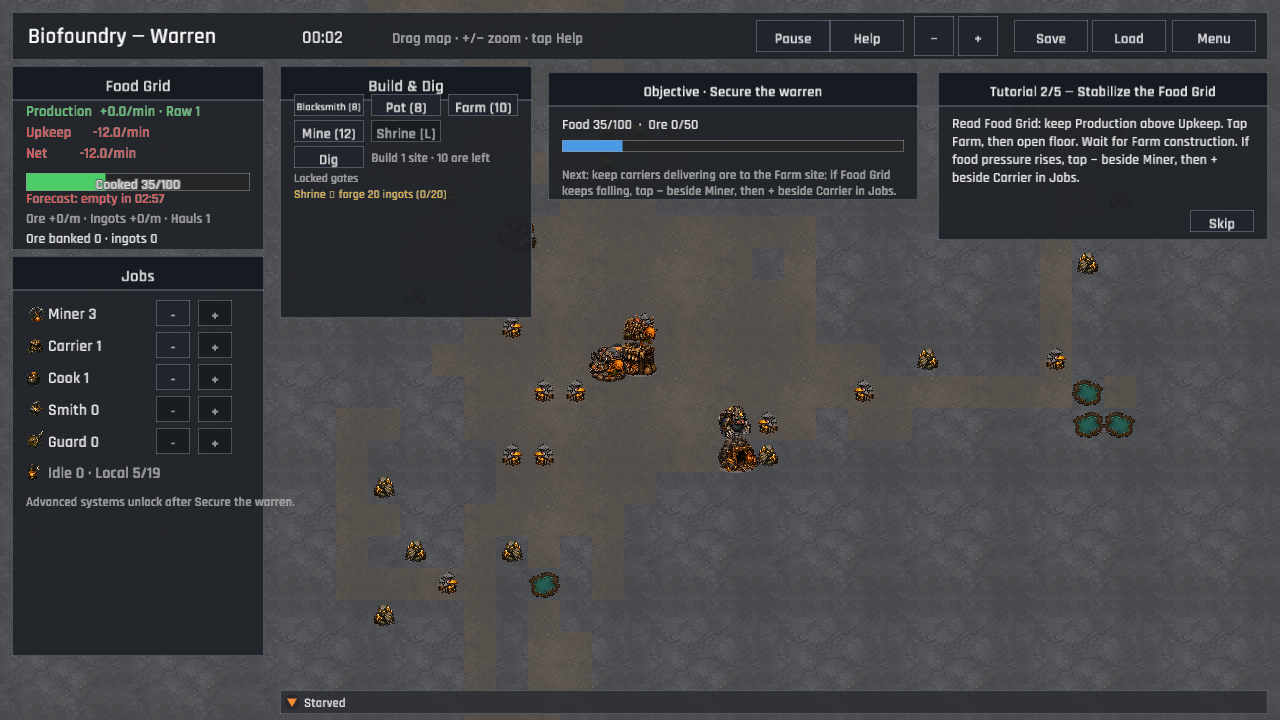
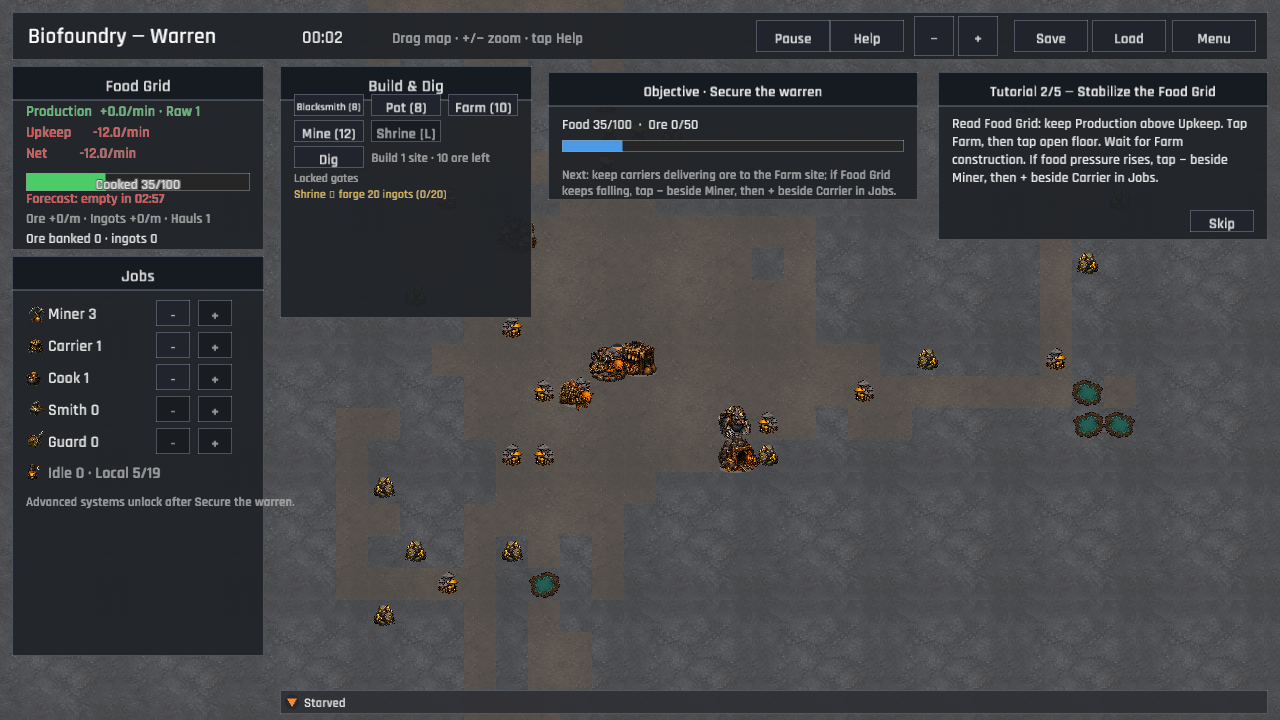
The lessons point every footstep through the warren (tutorial guidance)
Food and factory onboarding now names the exact visible taps for selecting a building, placing it on open floor, opening the placed Blacksmith, and queueing the Iron Pickaxe. The tutorial renderer moved into its own module so the focused guidance change preserves the project's Rust file-size limit, while refreshed captures and regression assertions keep the normal and compact cards honest.

Changed region(s): [[0.75, 0.1833, 0.9688, 0.275], [0.4688, 0.4278, 0.5312, 0.4889], [0.4375, 0.5194, 0.4688, 0.5806]]

diff --git a/src/ui/hud/panels.rs b/src/ui/hud/panels.rs
@@ -4,6 +4,7 @@
 mod food;
 mod specialists;
 mod top_bar;
+mod tutorial;
 mod workforce;
 
 pub(super) use food::draw_food_grid_panel;
@@ -12,6 +13,9 @@ pub(super) use top_bar::{
     compact_food_recovery_hint, compact_raid_defense_hint, compact_top_bar,
     condensed_food_recovery_hint, condensed_raid_defense_hint, reassignable_job_count,
 };
+pub(super) use tutorial::draw_tutorial_panel;
+#[cfg(test)]
+pub(super) use tutorial::tutorial_body;
 use workforce::{engineer_status_label, workforce_capacity_label, workforce_pressure_label};
 
 use crate::data::GameData;
@@ -22,14 +26,12 @@ use crate::ui::hud::requirements::unlock_requirement_progress;
 use crate::ui::hud::widgets::{hud_button, panel_style};
 use crate::ui::hud::HudSprites;
 use crate::ui::legibility::advanced_systems_unlocked;
-use crate::ui::{UiAction, UiMode, LOGICAL_WIDTH};
+use crate::ui::{UiAction, UiMode};
 use macroquad::prelude::*;
 use macroquad_toolkit::prelude::*;
 use macroquad_toolkit::ui::{draw_ui_text_ex, format_mmss};
 
 const OBJECTIVE_PANEL: Rect = Rect::new(548.0, 72.0, 370.0, 128.0);
-const TUTORIAL_PANEL_HEIGHT: f32 = 168.0;
-const TUTORIAL_BODY_HEIGHT: f32 = 94.0;
 const LOCKED_TOOL_MARKER: &str = "[L]";
 
 #[derive(Debug, Clone, Copy)]
@@ -704,90 +706,4 @@ pub(super) fn draw_objective_panel(session: &GameSession, data: &GameData) -> Re
     );
 
     OBJECTIVE_PANEL
-}
-
-/// The tutorial card, top-right: current step, progress chip, and a skip
-/// button. Returns its rect while visible (for pointer-over-UI checks).
-pub(super) fn draw_tutorial_panel(
-    session: &GameSession,
-    data: &GameData,
-    mouse: Vec2,
-    ui_scale: f32,
-    actions: &mut Vec<UiAction>,
-) -> Option<Rect> {
-    let step = crate::tutorial::current_step(session, data)?;
-    let (done, total) = crate::tutorial::progress(session, data);
-
-    let panel = Rect::new(LOGICAL_WIDTH - 342.0, 72.0, 330.0, TUTORIAL_PANEL_HEIGHT);
-    draw_surface_with_title(
-        panel,
-        Some(&format!("Tutorial {}/{} — {}", done + 1, total, step.title)),
-        &panel_style(),
-        TextStyle::new(15.0, dark::TEXT_BRIGHT),
-    );
-
-    let body = tutorial_body(step, session, data);
-    draw_text_block(
-        &body,
-        panel.x + 14.0,
-        panel.y + 42.0,
-        panel.w - 28.0,
-        TUTORIAL_BODY_HEIGHT,
-        14.0,
-        4.0,
-        dark::TEXT,
-    );
-
-    let skip_height = if compact_top_bar(ui_scale) {
-        30.0
-    } else {
-        22.0
-    };
-    if hud_button(
-        Rect::new(
-            panel.right() - 78.0,
-            panel.bottom() - 30.0,
-            64.0,
-            skip_height,
-        ),
-        "Skip",
-        true,
-        mouse,
-    ) {
-        actions.push(UiAction::SkipTutorial);
-    }
-
-    Some(panel)
-}
-
-fn tutorial_body(
-    step: &crate::data::TutorialStepDef,
-    session: &GameSession,
-    data: &GameData,
-) -> String {
-    match step.id.as_str() {
-        "food" => format!(
-            "Read Food Grid: keep Production above Upkeep. Tap Farm, then open floor. Wait for Farm construction. If food pressure rises, {}.",
-            super::objective::job_assignment_action_hint(
-                session,
-                data,
-                Job::Carrier,
-                &[Job::Miner, Job::Smith, Job::Guard],
-            )
-        ),
-        "factory" => format!(
-            "Tap the existing Mine to read its rate. Place a Blacksmith. To staff it, {}. Tap Blacksmith, then Iron Pickaxe; the miner equips it and the Mine speeds up.",
-            super::objective::job_assignment_action_hint(
-                session,
-                data,
-                Job::Smith,
-                &[Job::Miner, Job::Carrier, Job::Cook, Job::Guard],
-            )
-        ),
-        "secure" => format!(
-            "Deliver 50 ore and hold 100 food in Objective. Before a raid, {}. This secures the warren and ends onboarding; next, forge 20 ingots and raise the Shrine.",
-            super::objective::security_handoff_action_hint(session, data)
-        ),
-        _ => step.body.clone(),
-    }
 }

diff --git a/src/ui/hud/panels/tutorial.rs b/src/ui/hud/panels/tutorial.rs
@@ -1,0 +1,95 @@
+//! The five-beat onboarding card and its state-aware recovery instructions.
+
+use super::compact_top_bar;
+use crate::data::{GameData, TutorialStepDef};
+use crate::state::creatures::Job;
+use crate::state::GameSession;
+use crate::ui::hud::widgets::{hud_button, panel_style};
+use crate::ui::{UiAction, LOGICAL_WIDTH};
+use macroquad::prelude::*;
+use macroquad_toolkit::prelude::*;
+
+const TUTORIAL_PANEL_HEIGHT: f32 = 168.0;
+const TUTORIAL_BODY_HEIGHT: f32 = 94.0;
+
+/// The tutorial card, top-right: current step, progress chip, and a skip
+/// button. Returns its rect while visible (for pointer-over-UI checks).
+pub fn draw_tutorial_panel(
+    session: &GameSession,
+    data: &GameData,
+    mouse: Vec2,
+    ui_scale: f32,
+    actions: &mut Vec<UiAction>,
+) -> Option<Rect> {
+    let step = crate::tutorial::current_step(session, data)?;
+    let (done, total) = crate::tutorial::progress(session, data);
+
+    let panel = Rect::new(LOGICAL_WIDTH - 342.0, 72.0, 330.0, TUTORIAL_PANEL_HEIGHT);
+    draw_surface_with_title(
+        panel,
+        Some(&format!("Tutorial {}/{} — {}", done + 1, total, step.title)),
+        &panel_style(),
+        TextStyle::new(15.0, dark::TEXT_BRIGHT),
+    );
+
+    let body = tutorial_body(step, session, data);
+    draw_text_block(
+        &body,
+        panel.x + 14.0,
+        panel.y + 42.0,
+        panel.w - 28.0,
+        TUTORIAL_BODY_HEIGHT,
+        14.0,
+        4.0,
+        dark::TEXT,
+    );
+
+    let skip_height = if compact_top_bar(ui_scale) {
+        30.0
+    } else {
+        22.0
+    };
+    if hud_button(
+        Rect::new(
+            panel.right() - 78.0,
+            panel.bottom() - 30.0,
+            64.0,
+            skip_height,
+        ),
+        "Skip",
+        true,
+        mouse,
+    ) {
+        actions.push(UiAction::SkipTutorial);
+    }
+
+    Some(panel)
+}
+
+pub fn tutorial_body(step: &TutorialStepDef, session: &GameSession, data: &GameData) -> String {
+    match step.id.as_str() {
+        "food" => format!(
+            "Read Food Grid: keep Production above Upkeep. Tap Farm, then tap open floor. Wait for Farm construction. If food pressure rises, {}.",
+            super::super::objective::job_assignment_action_hint(
+                session,
+                data,
+                Job::Carrier,
+                &[Job::Miner, Job::Smith, Job::Guard],
+            )
+        ),
+        "factory" => format!(
+            "Tap the existing Mine to read its rate. Tap Blacksmith in Build & Dig, then tap open floor. To staff it, {}. Tap the placed Blacksmith, then tap Iron Pickaxe; the miner equips it and the Mine speeds up.",
+            super::super::objective::job_assignment_action_hint(
+                session,
+                data,
+                Job::Smith,
+                &[Job::Miner, Job::Carrier, Job::Cook, Job::Guard],
+            )
+        ),
+        "secure" => format!(
+            "Deliver 50 ore and hold 100 food in Objective. Before a raid, {}. This secures the warren and ends onboarding; next, forge 20 ingots and raise the Shrine.",
+            super::super::objective::security_handoff_action_hint(session, data)
+        ),
+        _ => step.body.clone(),
+    }
+}

diff --git a/src/ui/hud/panels/tests.rs b/src/ui/hud/panels/tests.rs
@@ -69,6 +69,23 @@ fn food_tutorial_names_the_available_carrier_action() {
 }
 
 #[test]
+fn tutorial_placement_and_crafting_steps_name_each_visible_tap() {
+    let data = GameData::load().expect("embedded game data");
+    let mut session = GameSession::new(&data, 7);
+
+    session.tutorial_step = 1;
+    let food = crate::tutorial::current_step(&session, &data).expect("food tutorial step");
+    let food_body = tutorial_body(food, &session, &data);
+    assert!(food_body.contains("Tap Farm, then tap open floor"));
+
+    session.tutorial_step = 2;
+    let factory = crate::tutorial::current_step(&session, &data).expect("factory tutorial step");
+    let factory_body = tutorial_body(factory, &session, &data);
+    assert!(factory_body.contains("Tap Blacksmith in Build & Dig, then tap open floor"));
+    assert!(factory_body.contains("Tap the placed Blacksmith, then tap Iron Pickaxe"));
+}
+
+#[test]
 fn factory_tutorial_names_the_available_smith_action() {
     let data = GameData::load().expect("embedded game data");
     let mut session = GameSession::new(&data, 7);

diff --git a/src/tutorial/tests.rs b/src/tutorial/tests.rs
@@ -187,7 +187,7 @@ fn food_and_worm_lessons_name_the_next_visible_tap() {
         .find(|step| step.id == "worm")
         .expect("worm lesson");
 
-    assert!(food.body.contains("Tap Farm, then open floor"));
+    assert!(food.body.contains("Tap Farm, then tap open floor"));
     assert!(worm.body.contains("Tap the Worm Shrine to inspect it"));
 }
 

diff --git a/docs/phase-one/CANDIDATE_VERIFICATION.md b/docs/phase-one/CANDIDATE_VERIFICATION.md
@@ -89,6 +89,7 @@ automated simulation results into first-time-player evidence.
 | Minimum-layout spot check | Pass | The 1200×675 canvas and required HUD remained visible in the 1280×720 Preview viewport. |
 | Public metadata alignment | Pass (Preview) | The generated Preview page names the visible touch actions for panning, inspection, tools, Jobs controls, optional specialist recruitment, awakened Outpost cargo runs, optional automatic loading, cargo-only returns and food-only resupply, and the post-awakening Endless/Menu choices. Production FTP publication remains a separate release action. |
 | Compact viewport exploration | Pass with follow-up | The hosted Preview smoke path at 800×450 keeps the title, field guide, and Warren HUD on-canvas; capture probes at 800×450, 1024×576, 1280×720, and 1440×900 keep the Food/Factory/Worm tutorial cards, Blacksmith queue controls, Shrine pause control, completion choices, and Endless outpost actions visible without clipping or overlap. The compact branch now gives the high-frequency top-bar, Jobs, Build & Dig, Outpost, Blacksmith, Breeding Pit, and Shrine controls larger visual affordances; the Outpost card pairs return choices and sequential upgrades so Pause scouting and final Load remain visible, and the refreshed warning captures keep their messages clear of that row. Representative [ui_compact_warren.png](../verification/ui_compact_warren.png), [ui_compact_blacksmith.png](../verification/ui_compact_blacksmith.png), [ui_compact_tutorial_blacksmith.png](../verification/ui_compact_tutorial_blacksmith.png), [ui_compact_breeding.png](../verification/ui_compact_breeding.png), [ui_compact_shrine.png](../verification/ui_compact_shrine.png), [ui_compact_endless_load_preview.png](../verification/ui_compact_endless_load_preview.png), [ui_compact_endless_upgraded.png](../verification/ui_compact_endless_upgraded.png), and [ui_compact_endless_wormsong_chorus_haul.png](../verification/ui_compact_endless_wormsong_chorus_haul.png) captures preserve the responsive states. The compact Blacksmith now uses a two-column recipe card so the complete 13-recipe catalogue remains visible even below an open factory tutorial; concise recipe and gate labels remain readable, while the Breeding Pit retains 36-pixel action targets with 40-pixel spacing. Remaining text density and first-time-player comprehension still require human validation. |
+| Tutorial direct-control wording | Pass (focused, capture, and test evidence) | The Food lesson now says `Tap Farm, then tap open floor`, and the Factory lesson names `Tap Blacksmith in Build & Dig, then tap open floor` before the visible Jobs reassignment and `tap Iron Pickaxe` action. Refreshed [ui_tutorial_food.png](../verification/ui_tutorial_food.png), [ui_tutorial_factory.png](../verification/ui_tutorial_factory.png), and [ui_compact_tutorial_blacksmith.png](../verification/ui_compact_tutorial_blacksmith.png) captures keep the explicit sequence rendered without clipping. |
 | Visible-control smoke path | Pass | A fresh full-screen Preview warren advanced through visible New Warren, + zoom, direct map drag, map-tap inspection (`Stockpile`), valid Farm placement, `− Miner`/`+ Carrier` reassignment, Pause/Resume, Help/Close, Save, and Load without keyboard input. Invalid placement also returned the readable `Can't build there.` notice. The Load round-trip restored the saved `04:45` state with the 10-ore construction site, 2 Miner/2 Carrier staffing, and tutorial `2/5 — Stabilize the Food Grid`; successful placement returned to Inspect instead of creating a second site. This is developer smoke evidence, not a qualifying first-time-player session. |
 | Current WebGL onboarding smoke | Pass (developer evidence) | The locally published candidate was opened in a real browser at 1280×720. Visible New Warren confirmation and fresh-run controls remained on-canvas; primary-pointer map dragging advanced Tutorial 1/5 to 2/5, Farm selection and open-floor placement created a 10-ore construction site, and the visible `− Miner` then `+ Carrier` recovery instruction reassigned the workforce while food pressure remained forecast. The run stopped during construction delivery, so this is not a qualifying first-time-player campaign result. |
 | Packaged HUD recovery controls | Pass | A fresh full-screen Preview run changed Settings volume with visible `−`/`+` controls, opened and closed the Field Guide while paused, and resumed the warren with the same visible HUD and tutorial state. This confirms the modal guide leaves the underlying Warren controls recoverable by pointer; it does not replace the still-open full-campaign evidence. |
@@ -101,7 +102,7 @@ automated simulation results into first-time-player evidence.
 ## Automated candidate checks
 
 - `cargo fmt -- --check` — pass.
-- `cargo test --all-targets` — 501 unit tests and 2 integration/code-standard
+- `cargo test --all-targets` — 502 unit tests and 2 integration/code-standard
   targets pass,
   including fresh/simulated/remote-transit valid sessions, modal route
   planning, rejected malformed save shapes, and event-history save/load
